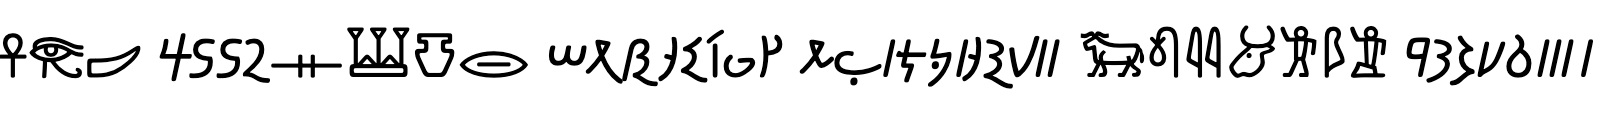
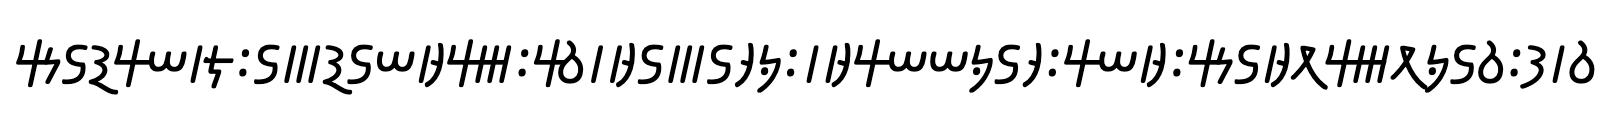
Add meroitic hieroglyphs and garay to samples, font lister, and linkdata

Changed region(s): [[0.0, 0.225, 1.0, 0.775]]

diff --git a/fontlist/index.html b/fontlist/index.html
@@ -167,7 +167,7 @@ currentTag = ''
 currentTitle = ''
 currentSample = ''
 currentStyle = ''
-rtlScripts = new Set(['adlm', 'arab', 'armi', 'avst', 'chrs', 'cprt', 'elym', 'hatr', 'khar', 'lydi', 'rohg', 'hebr', 'mand', 'nkoo', 'mani', 'mend', 'merc', 'nbat', 'hung', 'narb', 'orkh', 'ougr', 'phli', 'palm', 'prti', 'phlp', 'phnx', 'samr', 'sarb', 'sogd', 'syrc', 'thaa', 'yezi'])
+rtlScripts = new Set(['adlm', 'arab', 'armi', 'avst', 'chrs', 'cprt', 'elym', 'gara', 'hatr', 'khar', 'lydi', 'rohg', 'hebr', 'mand', 'nkoo', 'mani', 'mend', 'merc', 'mero', 'nbat', 'hung', 'narb', 'orkh', 'ougr', 'phli', 'palm', 'prti', 'phlp', 'phnx', 'samr', 'sarb', 'sogd', 'syrc', 'thaa', 'yezi'])
 
 
 
@@ -413,7 +413,7 @@ var scriptData = {
 'lydi': { title: 'Lydian', sample: 'xld' },
 
 'mahj': { title: 'Mahajani', sample: 'sa-mahj' },
-'maka': { title: 'Makassarese', sample: 'mak' },
+'maka': { title: 'Makasar', sample: 'mak' },
 'mlym': { title: 'Malayalam', sample: 'ml' },
 'mand': { title: 'Mandaic', sample: 'mid' },
 'mani': { title: 'Manichaean', sample: 'xmn', dir:'rtl' },
@@ -422,7 +422,8 @@ var scriptData = {
 'medf': { title: 'Medefaidrin', sample: 'dmf' },
 'mend': { title: 'Mende Kikakui', sample: 'men' },
 'mtei': { title: 'Meetei Mayek', sample: 'mni' },
-'merc': { title: 'Meroitic', sample: 'xmr' },
+'merc': { title: 'Meroitic Cursive', sample: 'xmr-merc' },
+'mero': { title: 'Meroitic Hieroglyphs', sample: 'xmr-mero' },
 'plrd': { title: 'Miao', sample: 'hmd-plrd' },
 'modi': { title: 'Modi', sample: 'sa-modi' },
 'mong': { title: 'Mongolian', sample: 'khk' },
@@ -623,7 +624,7 @@ function setFontFeatures ( features ) {
 
 
 <p id="status">Updated 
-<!-- #BeginDate format:Sw1 -->30 October, 2024<!-- #EndDate -->
+<!-- #BeginDate format:Sw1 -->2 November, 2024<!-- #EndDate -->
 <span id="versionTop">• recent changes 
   <a target="_blank" href="https://github.com/r12a/scripts/commits/gh-pages" title="Show commits for the whole scripts repository.">scripts</a>/<a target="_blank" href="https://github.com/r12a/scripts/commits/gh-pages/fontlist" title="Show commits for scripts/fontlist.">fontlist</a> • leave a <a target="_blank" href="https://github.com/r12a/scripts/issues/new?title=[fontlist]%20%20BRIEF_TITLE_GOES_HERE&amp;body=%5Bsource%5D%20https%3A%2F%2Fr12a.github.io%2Fscripts%2Ffontlist%0A%0A" title="Leave a comment.">comment</a></span>
   </p>
@@ -781,7 +782,7 @@ function setFontFeatures ( features ) {
 
 <a class="trigger" href="index.html?script=mahj">mahajani</a> • 
 
-<a class="trigger" href="index.html?script=maka">makassarese</a> • 
+<a class="trigger" href="index.html?script=maka">makasar</a> • 
 
 <a class="trigger" href="index.html?script=mlym">malayalam</a> • 
 
@@ -799,7 +800,9 @@ function setFontFeatures ( features ) {
 
 <a class="trigger" href="index.html?script=mtei">meetei mayek</a> •
 
-<a class="trigger" href="index.html?script=merc">meroitic</a> •
+<a class="trigger" href="index.html?script=merc">meroitic cursive</a> •
+
+<a class="trigger" href="index.html?script=mero">meroitic hieroglyphs</a> •
 
 <a class="trigger" href="index.html?script=plrd">miao</a> • 
 

diff --git a/samples/index.html b/samples/index.html
@@ -211,12 +211,14 @@ aside p {
 [lang=ur], [lang=ks-arab] { font-family: "Noto Nastaliq Urdu", "Urdu Typesetting", "Scheherazade New", "Al Bayan", "Traditional Arabic"}
 [lang=und-kthi] { font-family: "Noto Sans Kaithi", "Sans Serif Collection" }
 [lang=vai] { font-family: "Noto Sans Vai", "Ebrima" }
+[lang=wo-gara] { font-family: "WolofGaraySansSerif" }
 [lang=xlc] { font-family: "Geneva", "Noto Sans Lycian", "Segoe UI Historic" }
 [lang=xld] { font-family: "Noto Sans Lydian", "Segoe UI Historic" }
 [lang=xly] { font-family: "Noto Sans Elymaic", "Sans Serif Collection" }
 [lang=xcr] { font-family: "Noto Sans Carian", "Segoe UI Historic" }
 [lang=xmn] { font-family: "Noto Sans Manichaean", "Sans Serif Collection" }
-[lang=xmr] { font-family: "Noto Sans Meroitic" }
+[lang=xmr-merc] { font-family: "Noto Sans Meroitic"; line-break: anywhere; }
+[lang=xmr-mero] { font-family: "Noto Sans Meroitic"; line-break: anywhere; }
 [lang=xpr] { font-family: "Noto Sans Inscriptional Parthian", "Segoe UI Historic" }
 [lang=xsa] { font-family: "Noto Sans Old South Arabian", "Segoe UI Historic" }
 [lang=zh-hans] { font-family: "Pingfang SC", "Microsoft Yahei" }
@@ -347,7 +349,7 @@ function changeFontFamily ( newFont ) {
 
 
 <p id="status">Updated 
-<!-- #BeginDate format:Sw1 -->16 June, 2024<!-- #EndDate -->
+<!-- #BeginDate format:Sw1 -->2 November, 2024<!-- #EndDate -->
   <span id="versionTop">• recent changes 
   <a target="_blank" href="https://github.com/r12a/scripts/commits/gh-pages" title="Show commits for the whole scripts repository.">scripts</a>/<a target="_blank" href="https://github.com/r12a/scripts/commits/gh-pages/fontlist" title="Show commits for scripts/fontlist.">fontlist</a> • leave a <a target="_blank" href="https://github.com/r12a/scripts/issues/new?title=[fontlist]%20%20BRIEF_TITLE_GOES_HERE&amp;body=%5Bsource%5D%20https%3A%2F%2Fr12a.github.io%2Fscripts%2Ffontlist%0A%0A" title="Leave a comment.">comment</a></span>
 </p>
@@ -429,6 +431,8 @@ function changeFontFamily ( newFont ) {
 <a class="trigger" href="index.html?script=elym">elymaic</a> • 
 
 <a class="trigger" href="index.html?script=ethi">ethiopic</a> • 
+
+<a class="trigger" href="index.html?script=gara">garay</a> • 
 
 <a class="trigger" href="index.html?script=geor">georgian</a> • 
 
@@ -520,7 +524,9 @@ function changeFontFamily ( newFont ) {
 
 <a class="trigger" href="index.html?script=mtei">meetei mayek</a> •
 
-<a class="trigger" href="index.html?script=merc">meroitic</a> •
+<a class="trigger" href="index.html?script=merc">meroitic cursive</a> •
+
+<a class="trigger" href="index.html?script=mero">meroitic hieroglyphs</a> •
 
 <a class="trigger" href="index.html?script=plrd">miao</a> • 
 

diff --git a/linkdata/linkdb.js b/linkdata/linkdb.js
@@ -544,13 +544,31 @@ usedfor: "Mende [men]",
 },
 
 
-merc:{ script:"Meroitic", code:"Merc", name:"", type:"Abugida",
+merc:{ script:"Meroitic Cursive", code:"Merc", name:"", type:"Abugida",
 dates:"BCE 3rdC – 4thC CE", start:"-300", end:"400", current_usage:"",
 status:"",
 origin:"Africa",
 info:{ wikipedia:"Meroitic_alphabet", omniglot:"meroitic" },
 local: [ ], layout: [ ],
-charts: [ ["Meroitic Cursive", "109A0"], ["Meroitic Hieroglyphs", "10980"] ],
+charts: [ ["Meroitic Cursive", "109A0"] ],
+terms: [["Meroitic", "mero/xmr_vocab.html"]],
+pickers: [["Meroitic", "mero"]],
+orthoChart: "",
+ssHistory: "ssxtjnbc7s",
+chapters: "11",
+htmlchapter: "11/#G26724",
+usedfor: "Meroitic [xmr]",
+},
+
+
+mero:{ script:"Meroitic Hieroglyphs", code:"Mero", name:"", type:"Abugida",
+dates:"BCE 3rdC – 4thC CE", start:"-300", end:"400", current_usage:"",
+status:"",
+origin:"Africa",
+info:{ wikipedia:"Meroitic_alphabet", omniglot:"meroitic" },
+local: [ ], layout: [ ],
+charts: [ ["Meroitic Hieroglyphs", "10980"] ],
+pickers: [["Meroitic", "mero"]],
 orthoChart: "",
 ssHistory: "ssxtjnbc7s",
 chapters: "11",
